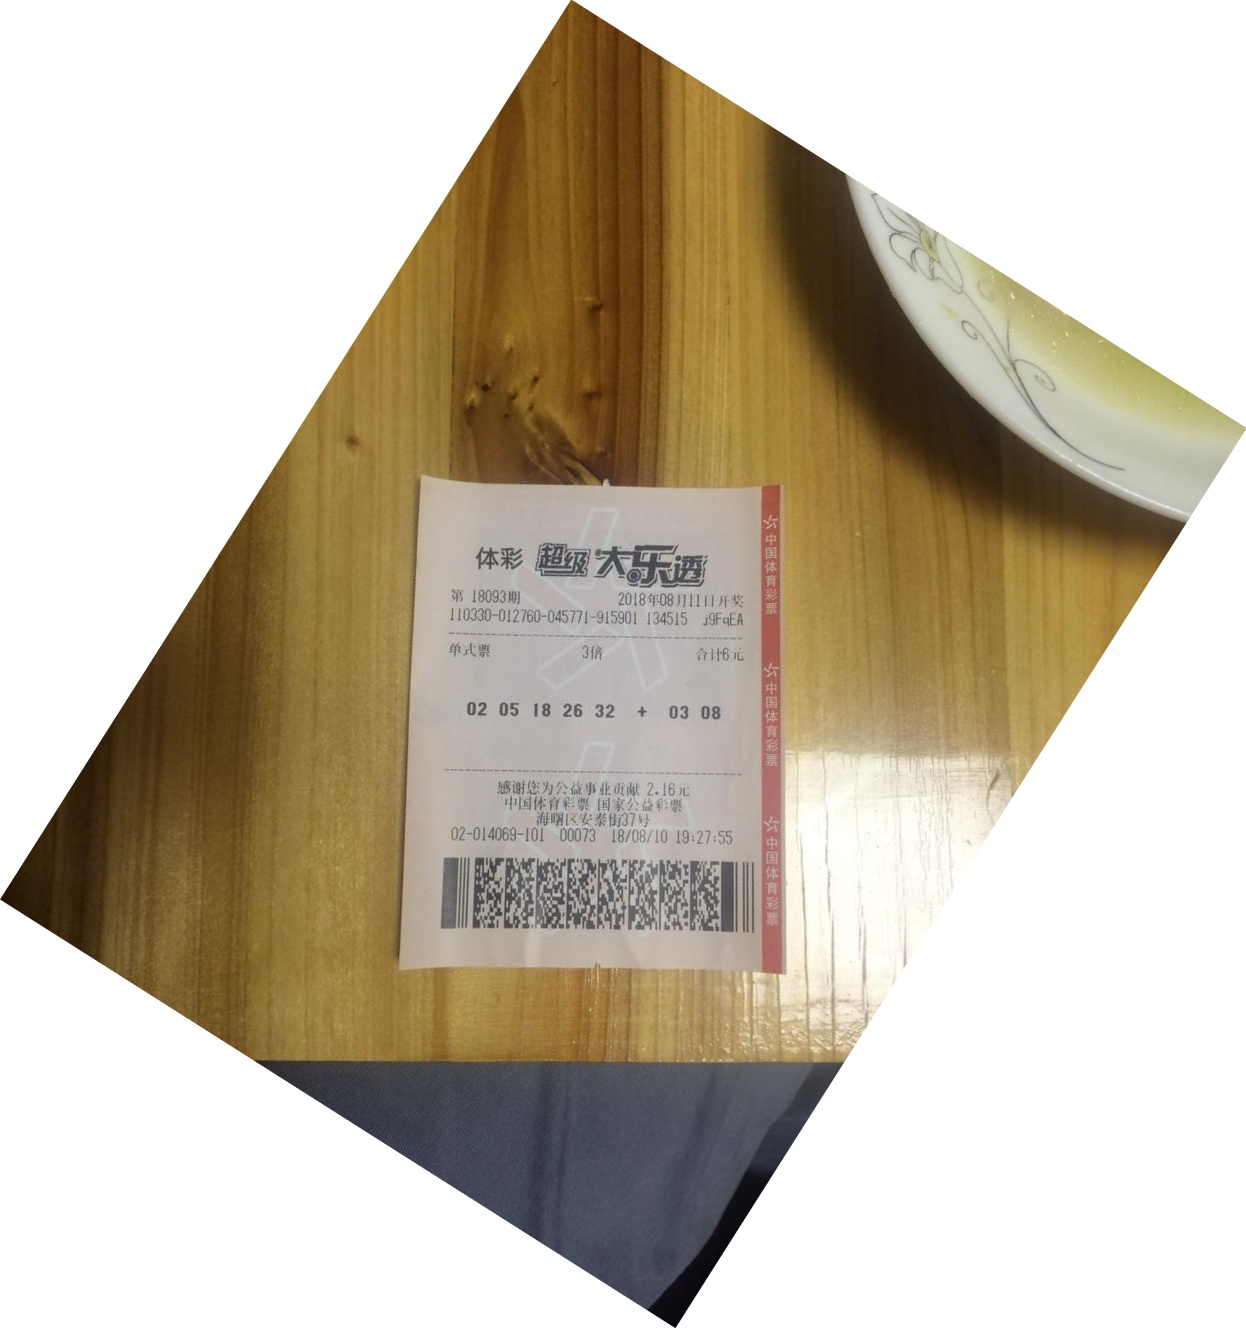
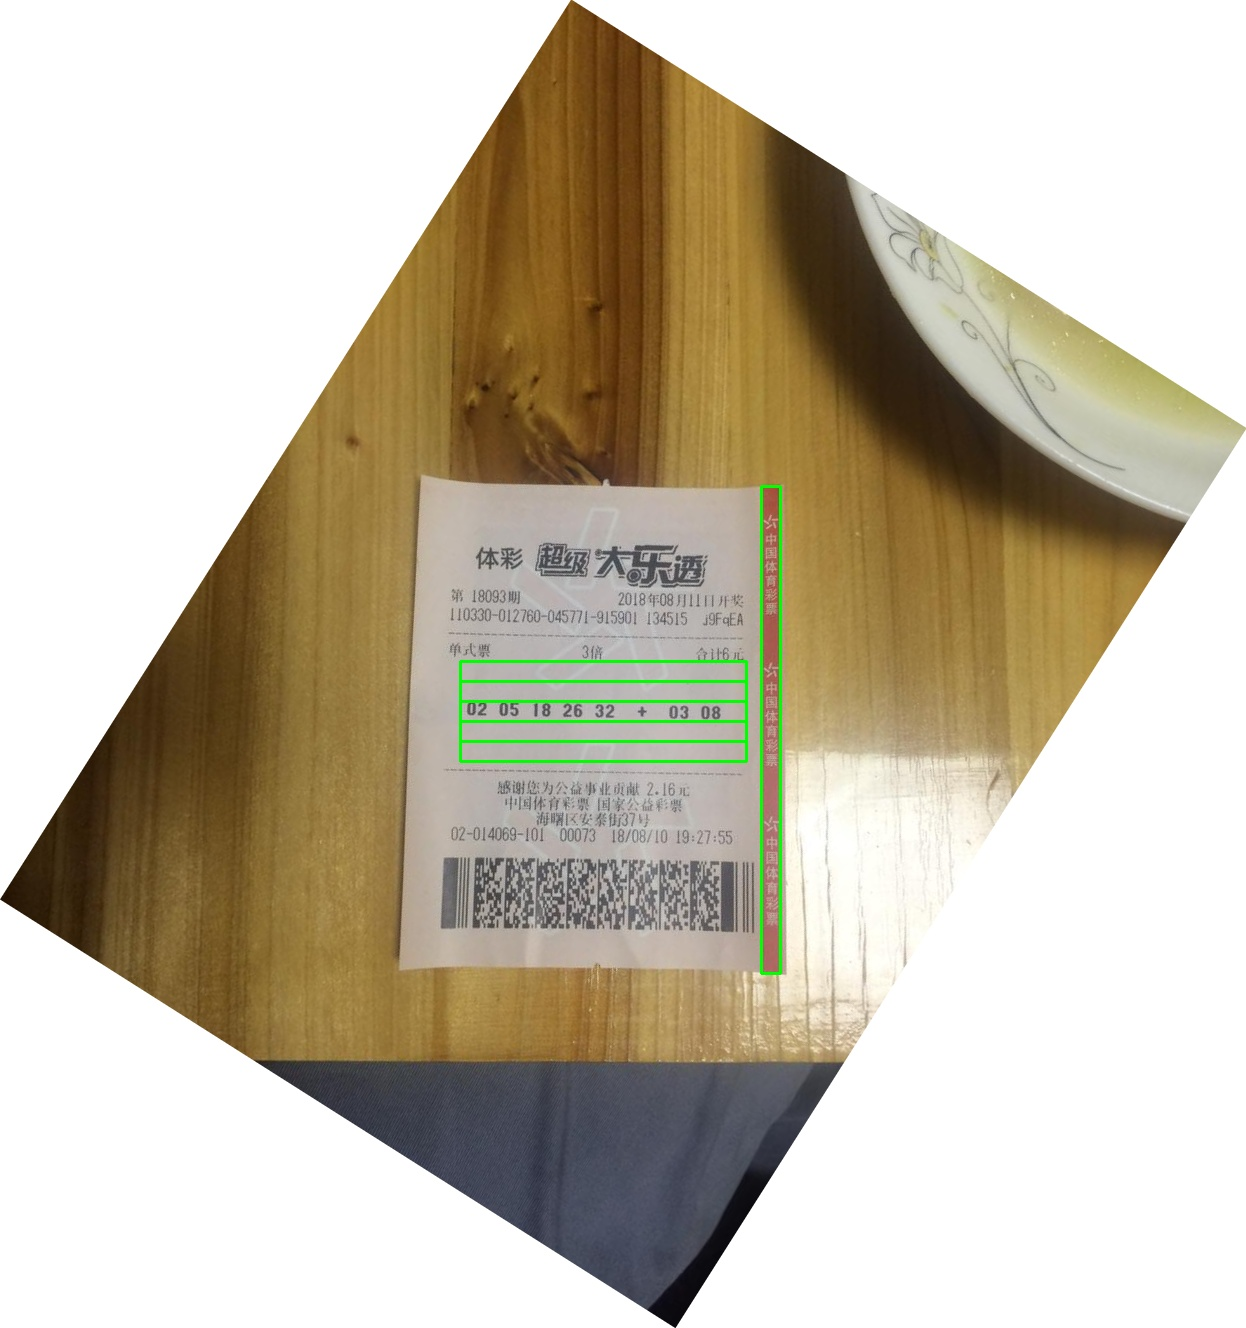
2

Changed region(s): [[0.366, 0.3705, 0.6404, 0.741]]

diff --git a/main1.py b/main1.py
@@ -1,0 +1,65 @@
+# encoding:utf-8
+
+import os
+import cv2
+import numpy as np
+import Util
+from math import *
+
+
+def handle(dir, filename):
+    img = cv2.imread(dir + filename)
+    # 查找红色条带区域
+    [x, y], [w, h], rate = Util.findRedArea(img)
+
+    print(x, y, w, h, rate)
+    if w > h:
+        rate += 90
+
+    if abs(rate) > 5:
+        img = Util.warpAffine(img, rate)
+        # 查找红色条带区域
+        [x, y], [w, h], rate = Util.findRedArea(img)
+
+
+    # 红色条带
+    cv2.rectangle(img, (int(x - w / 2), int(y - h / 2)), (int(x + w / 2), int(y + h / 2)), (0, 255, 0), 2)
+
+
+    # 定位号码区域
+    x1 = int(x - h * 433 / 681)
+    y1 = int(y - h / 2 + h * 245 / 681)
+    w1 = int(h * 400 / 681)
+    h1 = int(h * 143 / 681 / 5)
+
+
+    # 灰度化
+    gray = cv2.cvtColor(img, cv2.COLOR_BGR2GRAY)
+    # 增加对比度
+    gray = cv2.equalizeHist(gray)
+    # 高斯平滑 应该不需要
+    # gray = cv2.GaussianBlur(gray, (1, 1), 0, 0, cv2.BORDER_DEFAULT)
+    # 二值化
+    ret, binary = cv2.threshold(gray, 50, 255, cv2.THRESH_BINARY)
+    for i in range(5):
+        print('号码区域：', i)
+        cv2.rectangle(img, (x1, y1), (x1 + w1, y1 + h1), (0, 255, 0), 2)
+        tempImg = binary[y1: y1 + h1, x1: x1 + w1]
+        # cv2.imwrite('temp/number_' + str(i) + '.tif', tempImg)
+        # cv2.imwrite('step/4_' + str(i) + '.tif', tempImg)
+        #text = pytesseract.image_to_string(tempImg, lang='num')
+        # 空格没有什么好方法，  或者先定位每个数字？
+        # print('OCR识别结果：', text.replace(' ', ''))
+
+        y1 += h1
+
+    #cv2.imshow('img3', img)
+    cv2.imwrite('D:/PycharmProjects/OcrDemo/2/' + filename, img)
+
+
+
+rootdir = 'D:/PycharmProjects/OcrDemo/1/'
+list = os.listdir(rootdir)  # 列出文件夹下所有的目录与文件
+for i in range(0, len(list)):
+    print(rootdir, list[i])
+    handle(rootdir, list[i])

diff --git a/Util.py b/Util.py
@@ -1,0 +1,41 @@
+# encoding:utf-8
+
+import os
+import cv2
+import numpy as np
+from math import *
+
+
+def findRedArea(img):
+    # 提取彩票中的 红色条带
+    hsv = cv2.cvtColor(img, cv2.COLOR_BGR2HSV)
+    lower_red = np.array([0, 100, 100])  # red
+    upper_red = np.array([10, 255, 255])
+    red = cv2.inRange(hsv, lower_red, upper_red)
+
+    # 查找边框  RETR_EXTERNAL外轮廓
+    image, cnts, hierarchy = cv2.findContours(red, cv2.RETR_EXTERNAL, cv2.CHAIN_APPROX_SIMPLE)
+    cntsJoin = []
+
+    for i in range(len(cnts)):
+        # 只关注轮廓点数量超过10 的轮廓
+        if len(cnts[i]) > 10:
+            for j in range(len(cnts[i])):
+                for k in range(len(cnts[i][j])):
+                    (x0, y0) = cnts[i][j][k]
+                    # print(x0, y0)
+                    cntsJoin.append([x0, y0])
+
+    return cv2.minAreaRect(np.array([cntsJoin]))
+
+
+# 旋转
+def warpAffine(img, degree):
+    height, width = img.shape[:2]
+    # 旋转后的尺寸
+    heightNew = int(width * fabs(sin(radians(degree))) + height * fabs(cos(radians(degree))))
+    widthNew = int(height * fabs(sin(radians(degree))) + width * fabs(cos(radians(degree))))
+    matRotation = cv2.getRotationMatrix2D((width / 2, height / 2), degree, 1)
+    matRotation[0, 2] += (widthNew - width) / 2  # 重点在这步，目前不懂为什么加这步
+    matRotation[1, 2] += (heightNew - height) / 2  # 重点在这步
+    return cv2.warpAffine(img, matRotation, (widthNew, heightNew), borderValue=(255, 255, 255))
